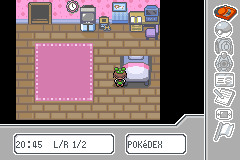
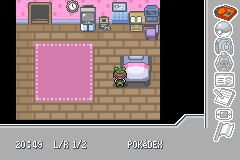
Remove white footer panels from custom Start menu

Changed region(s): [[0.0292, 0.8125, 0.7875, 0.9688], [0.8458, 0.7812, 0.875, 1.0]]

diff --git a/src/custom_start_menu.c b/src/custom_start_menu.c
@@ -61,7 +61,7 @@ static void RestoreFooter(u8 win, u8 backdrop)
         BlitBitmapToWindow(win,tile,(i%width)*8,(i/width)*8,8,8);
     }
 }
-static const u8 sFooterColors[]={TEXT_COLOR_TRANSPARENT,1,5};
+static const u8 sFooterColors[]={TEXT_COLOR_TRANSPARENT,5,1};
 void CustomStartMenu_Select(u8 cursor,const u8 *label)
 {
     u32 i;

diff --git a/docs/features/custom-start-menu/README.md b/docs/features/custom-start-menu/README.md
@@ -20,4 +20,4 @@ Rotom Phone was evaluated but is not installed. Quest icons, new quests and the 
 
 ## Footer correction
 
-The text windows now preserve the exact underlying footer tile pixels, including flips, instead of filling oversized white rectangles. Clock and page hint share a single line within the left panel; the current app name uses the right panel. Footer text uses the active frame palette and transparent glyph background. All four themes and all 554 existing native checks pass after the correction.
+The footer uses a continuous themed color strip with no white panels or window borders. Clock, L/R page hint and selected app name use white text with a dark shadow. All four themes and all 554 native checks pass on this build.
